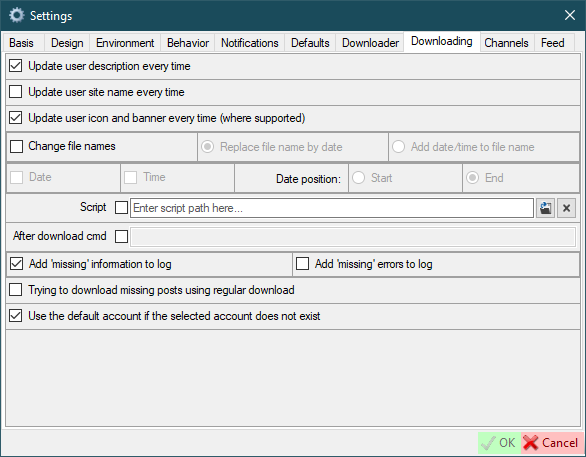
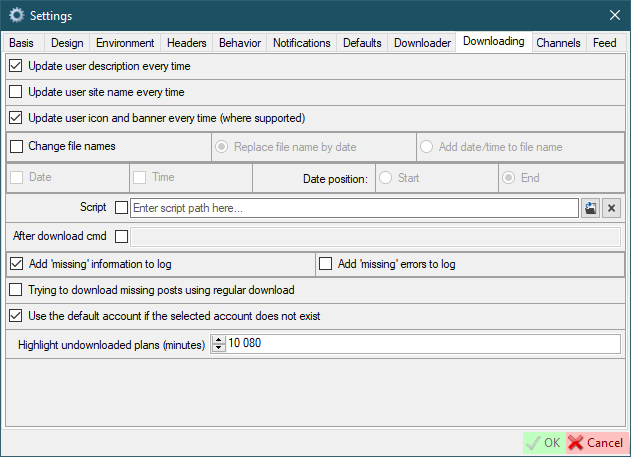
2024.6.4.0
API.Twitter: add communities downloading, change post opening URL
Feed: add the ability to select one of the download sessions and set it as the current session

diff --git a/README.md b/README.md
@@ -1,5 +1,5 @@
-<!-- # :rainbow_flag: Happy LGBT Pride Month :tada:
--->
+# 🏳🌈 Happy LGBT Pride Month 🎉
+
 # 🏳🌈 Social networks crawler 🏳🌈
 
 [![GitHub release (latest by date)](https://img.shields.io/github/v/release/AAndyProgram/SCrawler)](https://github.com/AAndyProgram/SCrawler/releases/latest)
@@ -37,8 +37,8 @@ A program to download photo and video from [any site](#supported-sites) (e.g. Yo
   - YouTube videos, shorts, community feeds, users, artists, playlists, music, tracks;
   - Reddit images, galleries of images, videos, saved posts;
   - Redgifs videos (https://www.redgifs.com/);
-  - Twitter images and videos, saved (bookmarked) posts;
-  - OnlyFans images and videos, saved (bookmarked) posts;
+  - Twitter images and videos, saved (bookmarked) posts, likes, communities;
+  - OnlyFans images and videos, saved (bookmarked) posts, stories;
   - JustForFans images and videos, saved (bookmarked) posts;
   - Mastodon images and videos, saved (bookmarked) posts;
   - Instagram images and videos, tagged posts, stories, saved posts;
@@ -79,11 +79,11 @@ A program to download photo and video from [any site](#supported-sites) (e.g. Yo
 - **Reddit**
 - **Twitter**
 - **OnlyFans** *(partial support)*[^1]
-- **Mastodon**
 - **Instagram**
 - **Threads**
 - **Facebook**
 - JustForFans *(partial support)*[^1]
+- Mastodon *(out of support)*
 - TikTok
 - RedGifs
 - Pinterest

diff --git a/Changelog.md b/Changelog.md
@@ -1,3 +1,22 @@
+# 2024.6.4.0
+
+*2024-06-04*
+
+**If you were using the [`yt-dlp-TTUser`](https://github.com/bashonly/yt-dlp-TTUser) plugin, you should remove it because this plugin was added to yt-dlp itself! Read more [here](https://github.com/AAndyProgram/SCrawler/wiki/Settings#tiktok-requirements).**
+
+- Added
+  - Added highlighting of scheduler plans (working, stopped, pending, etc.)
+  - YouTube (standalone app): add option to add the video upload date before/after the file name (`Settings` - `Defaults` - `Add date to file name`)
+  - Twitter: **`Communities` downloading**
+  - Feed: ability to select one of the download sessions and set it as the current session
+  - Minor improvements
+- Updated
+  - yt-dlp up to version **2024.05.27**
+  - gallery-dl up to version **1.27.0**
+- Fixed
+  - Twitter: deleting user directory when redownloading missing posts
+  - Minor bugs
+
 # 2024.5.19.0
 
 *2024-05-19*
